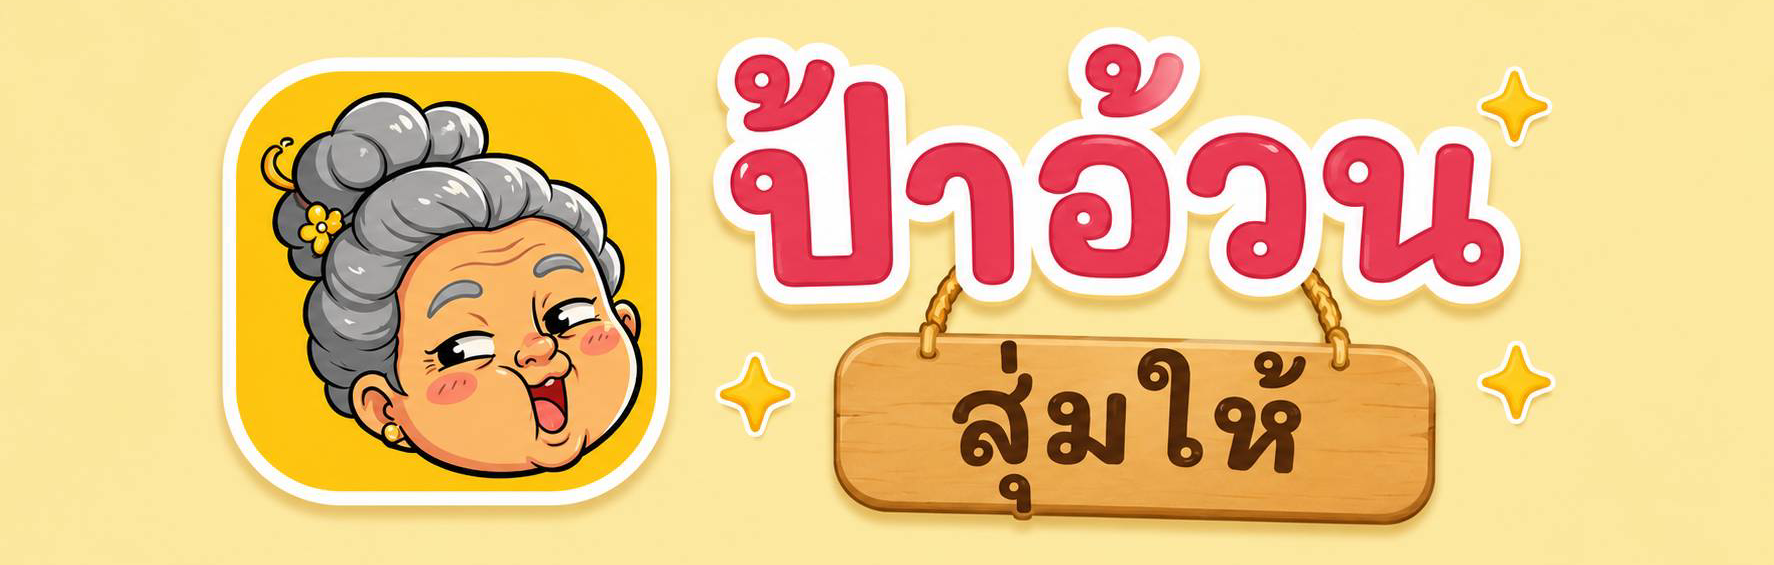
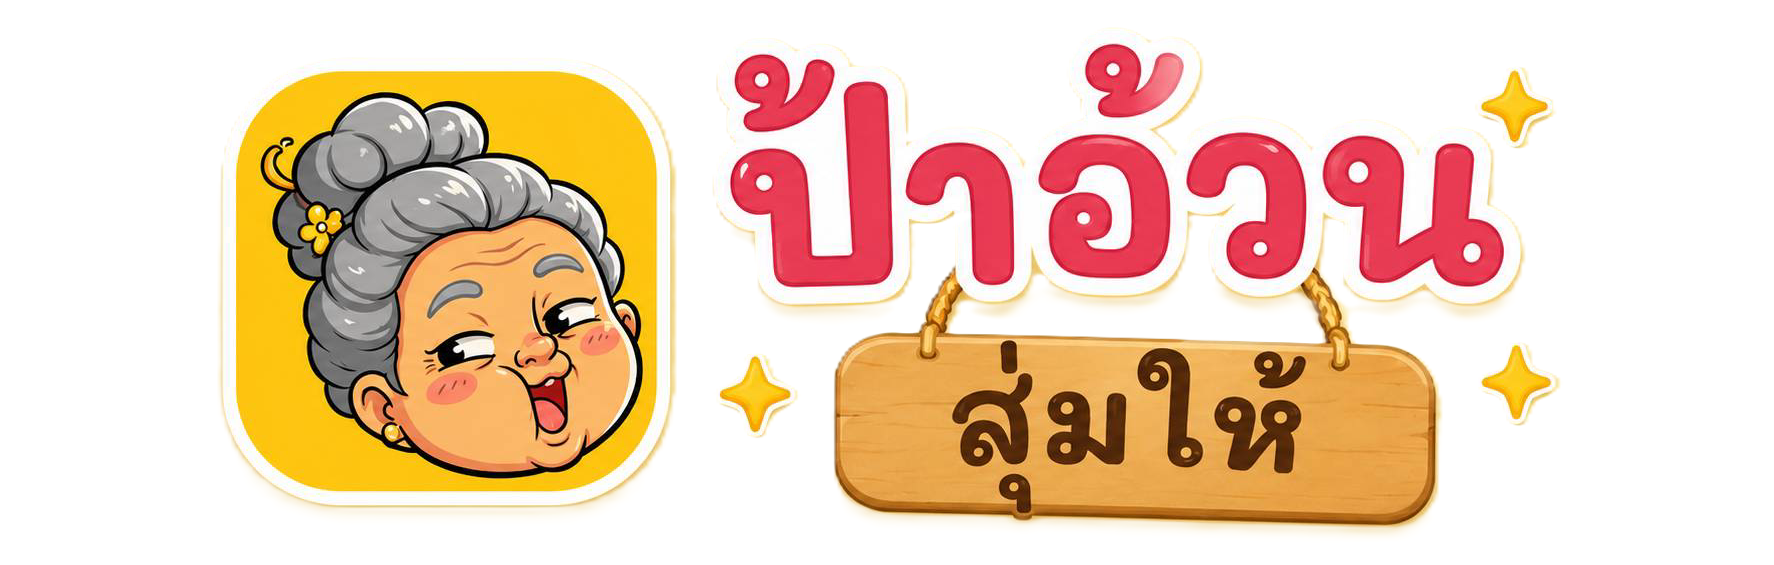
fix: หัวกระดาษแชร์ใช้พิกเซลตายตัว (กัน view-shot ระเบิดใหญ่), การ์ดแชร์พื้นครีม

diff --git a/src/components/CaptureCard.tsx b/src/components/CaptureCard.tsx
@@ -20,6 +20,7 @@ import type { PaaUanMood } from '@/data/paaUanLines';
 // หัวกระดาษแบรนด์ (ตัดขอบเหลืองว่างออกแล้ว เต็มความกว้าง คมชัด) — โผล่เฉพาะตอนแชร์
 const PATTERN = require('../../assets/images/pattern.png');
 const PATTERN_RATIO = 1774 / 565; // อัตราส่วนหัวกระดาษหลัง trim
+const PATTERN_W = 150; // ความกว้างหัวกระดาษบนใบแชร์ (พิกเซลตายตัว ≈ 31% ของการ์ด)
 // ขนาด "ใบสำหรับแชร์" จัตุรัสขั้นต่ำ (เนื้อหายาวเกินก็ยืดได้) — ซ่อนนอกจอ ตั้งใหญ่ได้
 const CAPTURE_SIZE = 480;
 // หางบับเบิลอยู่สูงเท่าปากป้า (≈ 22% จากหัวรูปป้า)
@@ -112,9 +113,9 @@ const styles = StyleSheet.create({
     padding: 16,
     gap: 14,
   },
-  // ใบแชร์ — พื้นเหลือง (เข้ากับหัวกระดาษ), จัตุรัสขั้นต่ำแต่ยืดได้, กระจายเนื้อหาสมดุล
+  // ใบแชร์ — พื้นครีม (สีเดียวกับการ์ดในแอป), จัตุรัสขั้นต่ำแต่ยืดได้, กระจายเนื้อหาสมดุล
   cardShare: {
-    backgroundColor: colors.butter,
+    backgroundColor: colors.cream,
     width: CAPTURE_SIZE,
     minHeight: CAPTURE_SIZE,
     padding: 22,
@@ -122,9 +123,11 @@ const styles = StyleSheet.create({
     justifyContent: 'space-between',
     alignItems: 'stretch',
   },
+  // หัวกระดาษ: ใช้ "พิกเซลตายตัว" ไม่ใช้ % เพราะตอน view-shot แคปนอกจอ
+  // % บางทีคำนวณไม่ได้ เลยตกไปใช้ขนาดจริงของภาพ (1774px) → ระเบิดใหญ่
   pattern: {
-    width: '38%', // หัวกระดาษเล็ก ๆ พอเป็นโลโก้ (ต้นฉบับ 1774px จึงยังคมชัด)
-    aspectRatio: PATTERN_RATIO,
+    width: PATTERN_W,
+    height: Math.round(PATTERN_W / PATTERN_RATIO),
     alignSelf: 'center',
   },
   resultArea: {
